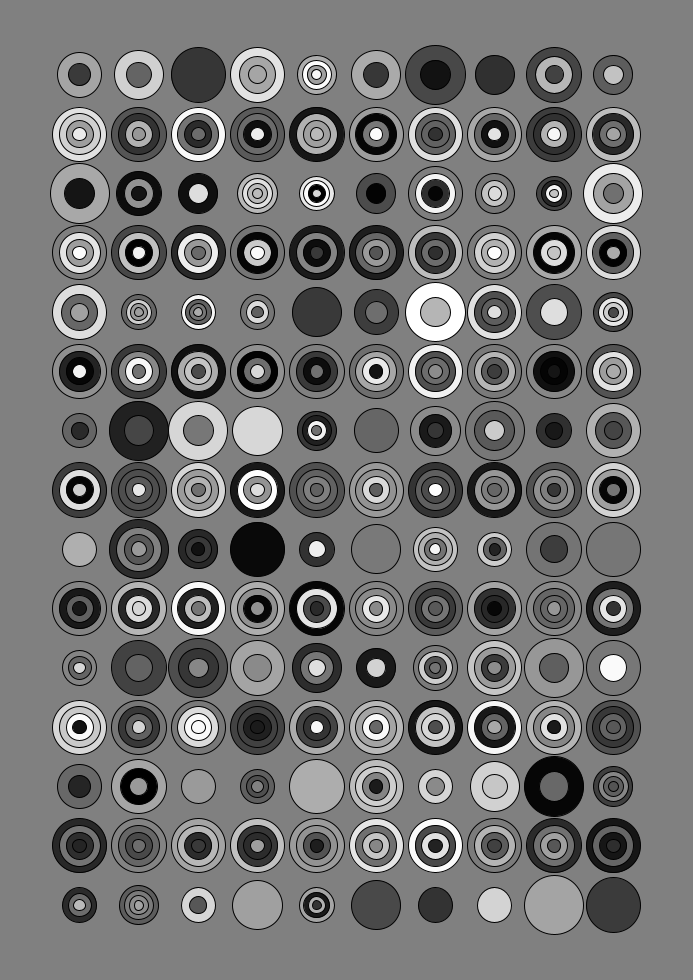
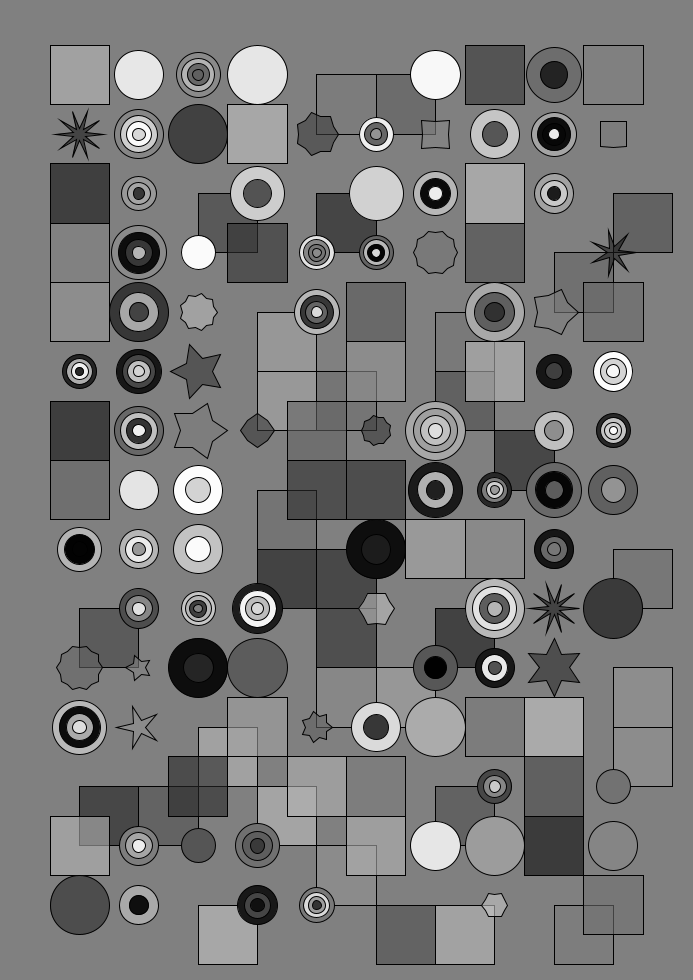
Adding practice exercise 3.4 from unit 3 of the course Designing with Python: Programming for a Visual Context by Alexandre Villares

diff --git a/designing/practice_exercise_3_4.py b/designing/practice_exercise_3_4.py
@@ -24,11 +24,19 @@ def setup():
         y = j * w + w/2 + offset_y
         for i in range(cols):
             x = i * w + w/2 + offset_x
-            if j % 2 == 0:
+            s = randint(0, 6)
+            if s <= 2:
                 concentric_circles(x, y, randint(1,4), w-5*randint(0,5))
+            elif 2 < s <= 5:
+                py5.fill(randint(0, 200), 150)
+                dr = randint(0, 1)*w/2
+                py5.rect(x-dr, y-dr, w, w)
             else:
-                concentric_circles(x, y, 4, w-5)
-
+                py5.fill(randint(0, 200), 150)
+                ra = randint(5, int(w/2))
+                rb = randint(5, int(w/2))
+                np = randint(4, 10)
+                star(x, y, ra, rb, np)
 def concentric_circles(x, y, n, d):
     # Draws n concentric circles centered at (x, y) with a maximum diameter d.
     py5.stroke(0)
@@ -36,6 +44,18 @@ def concentric_circles(x, y, n, d):
         py5.fill(randint(0, 255))
         py5.circle(x, y, d - i * d/n)
 
+def star(cx, cy, ra, rb, np, angle=0):
+    step = py5.TWO_PI / np
+    py5.begin_shape()
+    for i in range(np):
+        a = angle + i * step
+        ax = cx + py5.cos(a) * ra
+        ay = cy + py5.sin(a) * ra
+        py5.vertex(ax, ay)
+        bx = cx + py5.cos(a + step/2) * rb
+        by = cy + py5.sin(a + step/2) * rb
+        py5.vertex(bx, by)
+    py5.end_shape(py5.CLOSE)
 
 py5.run_sketch() # Run the sketch to see the setup and draws applied.
 py5.save_frame('practice_exercise_3_4.png') # Save a snapshot of the sketch window as a PNG file.

diff --git a/designing/readme.md b/designing/readme.md
@@ -9,3 +9,11 @@ The course, as per resources available on August 17<sup>th</sup> 2025, is compos
 It is noticeable how Villares doesn't use `from py5 import *` option, or even `import py5`, because he is running the code using Imported Mode. My adaptation also avoids `from py5 import *` because the [py5 web documentation](https://py5coding.org/content/py5_modes.html) explains that py5’s Module Mode is dependent on the module __getattr__ and __dir__ functionality described in [PEP 562](https://peps.python.org/pep-0562/).
 
 For more information and full documentation, check [py5 web site.](https://py5coding.org/)
+
+## Additional resources
+
+- Recommended reading of [Grid Systems in Graphic Design](https://books.google.de/books/about/Grid_Systems_in_Graphic_Design.html?id=MLYiAQAAIAAJ&source=kp_book_description&redir_esc=y) by Joseph Müller-Brockmann, a classic book about using grids in graphic design.
+
+- Diaries of [Vera Molnar](https://en.wikipedia.org/wiki/Vera_Moln%C3%A1r). Several of the artist's study and sketch notebooks were digitized and made available on the [site of the Centre Pompideu](https://www.centrepompidou.fr//fr/recherche/oeuvres?terms=Vera%20Moln%C3%A1r&withImage=oui&sort=dateCreationDesc&display=Grid).
+
+- Vera Molnar on [intuition and randomness](https://vimeo.com/372579247).
